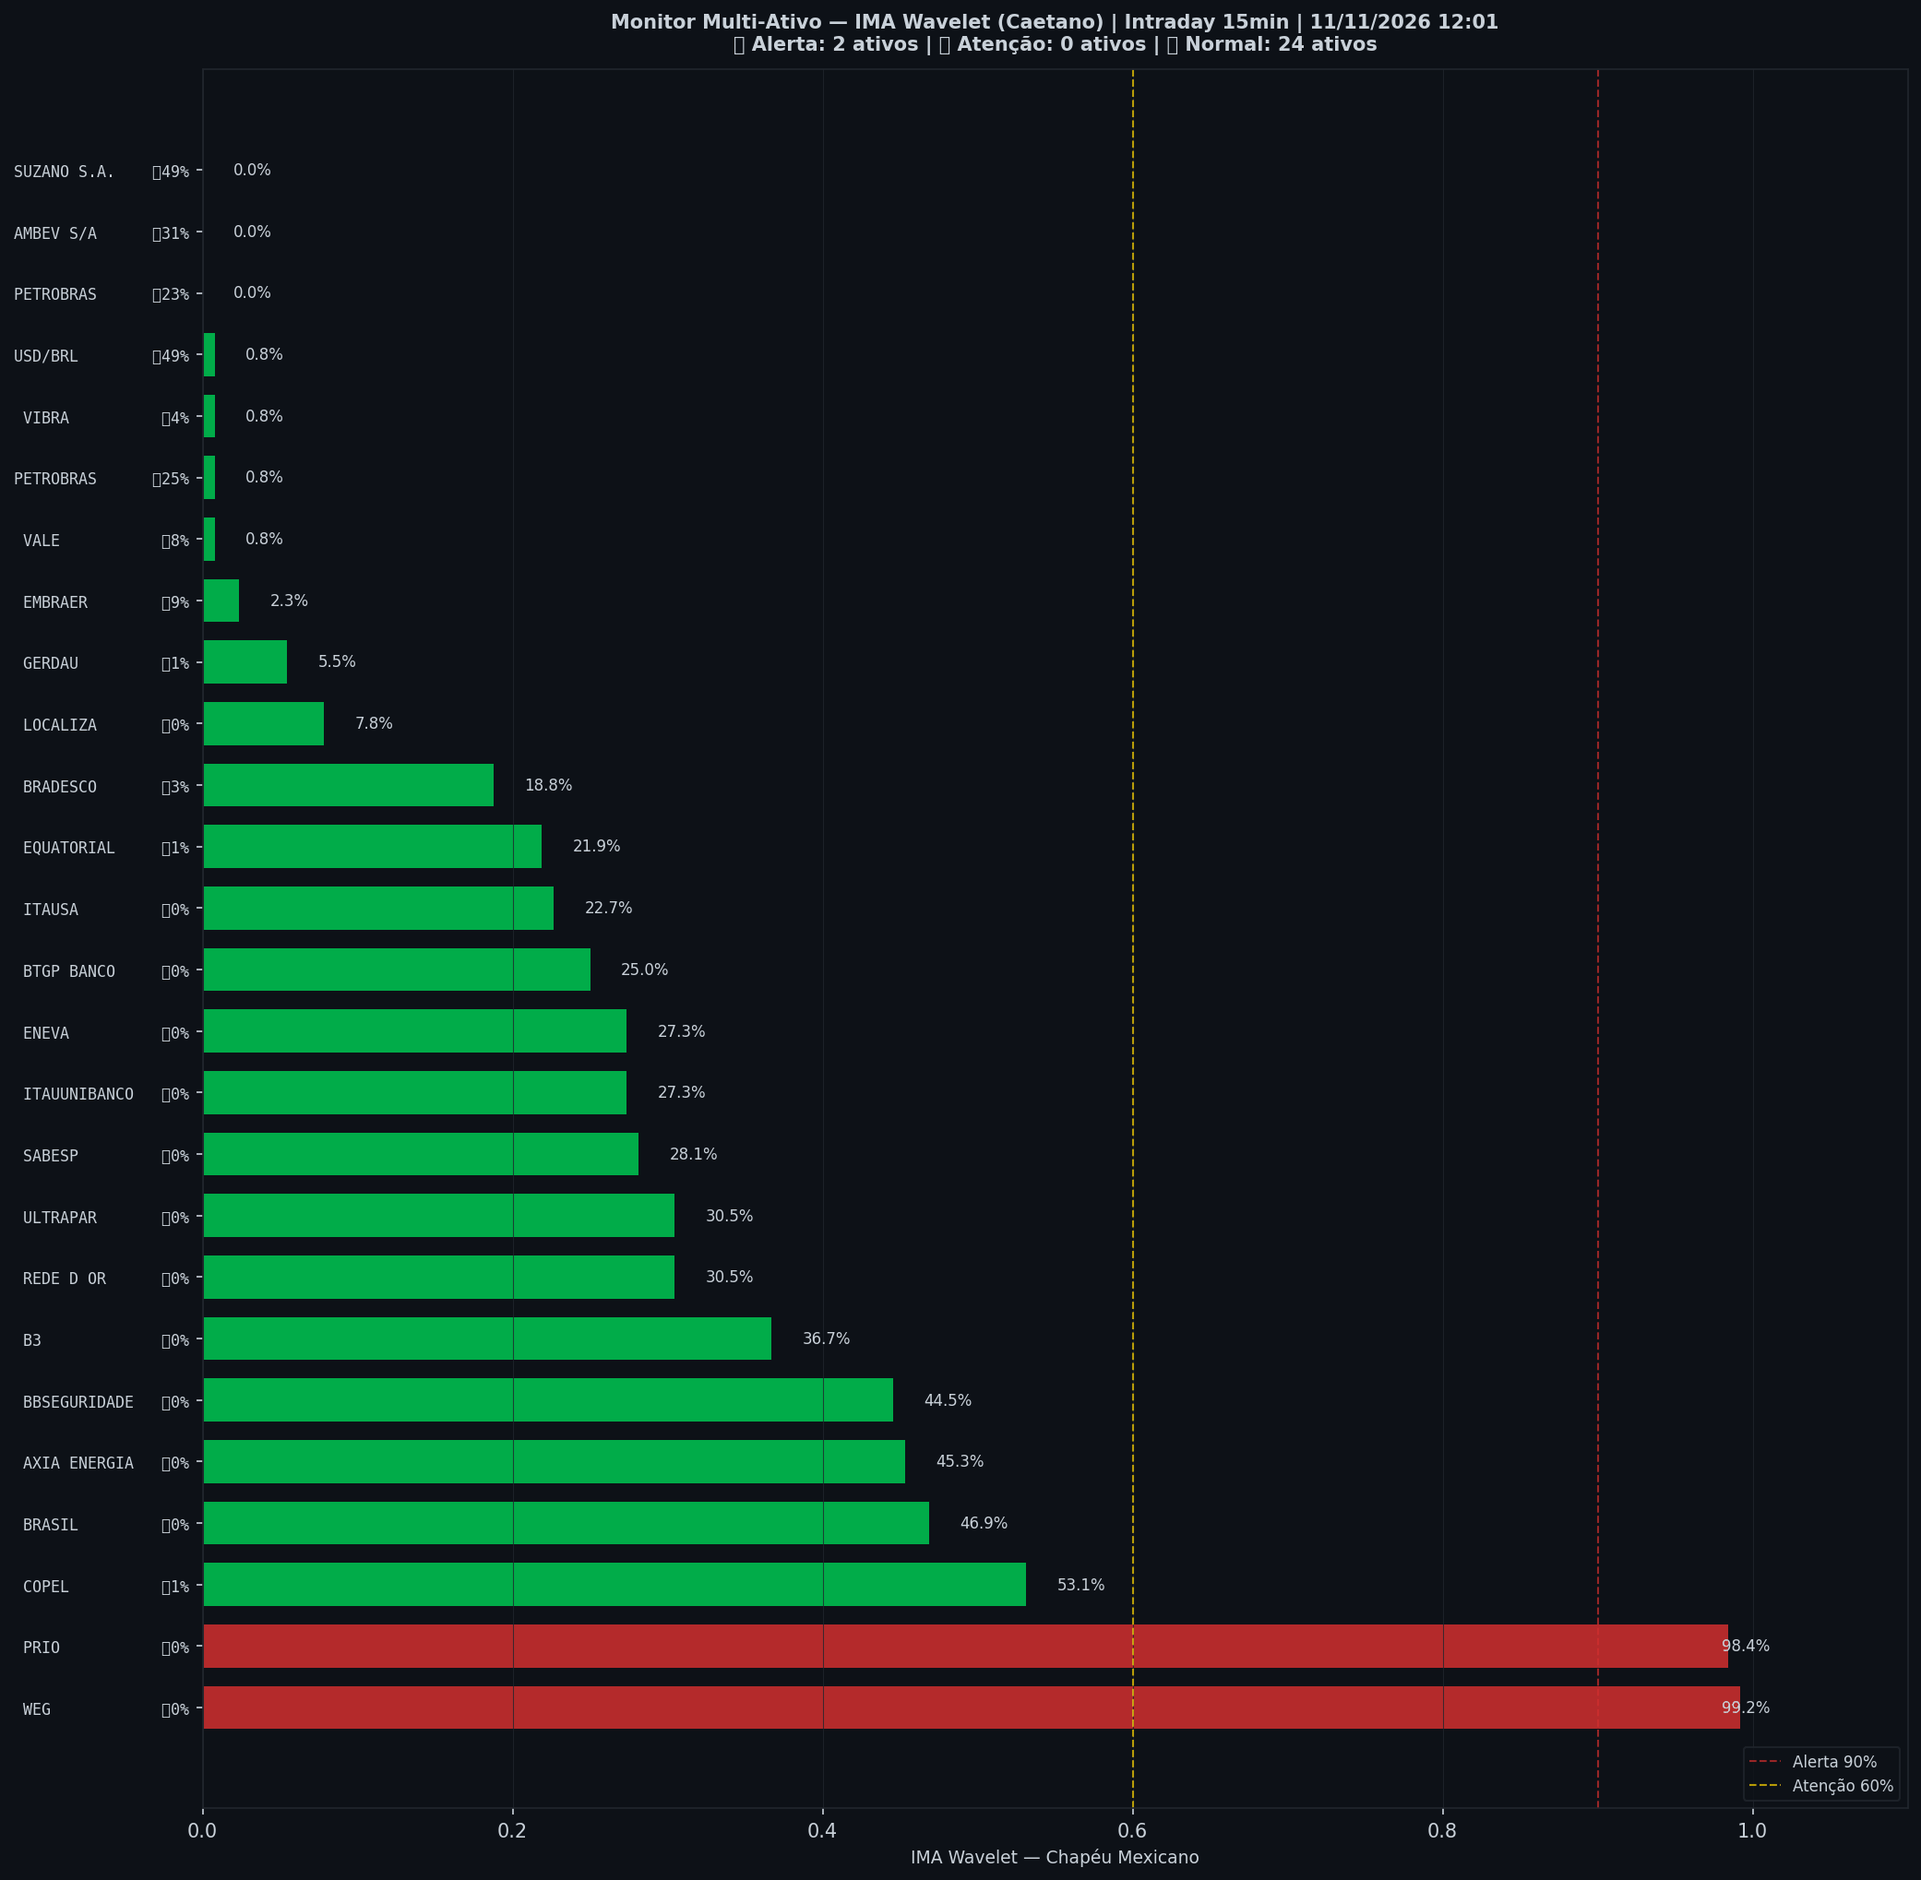
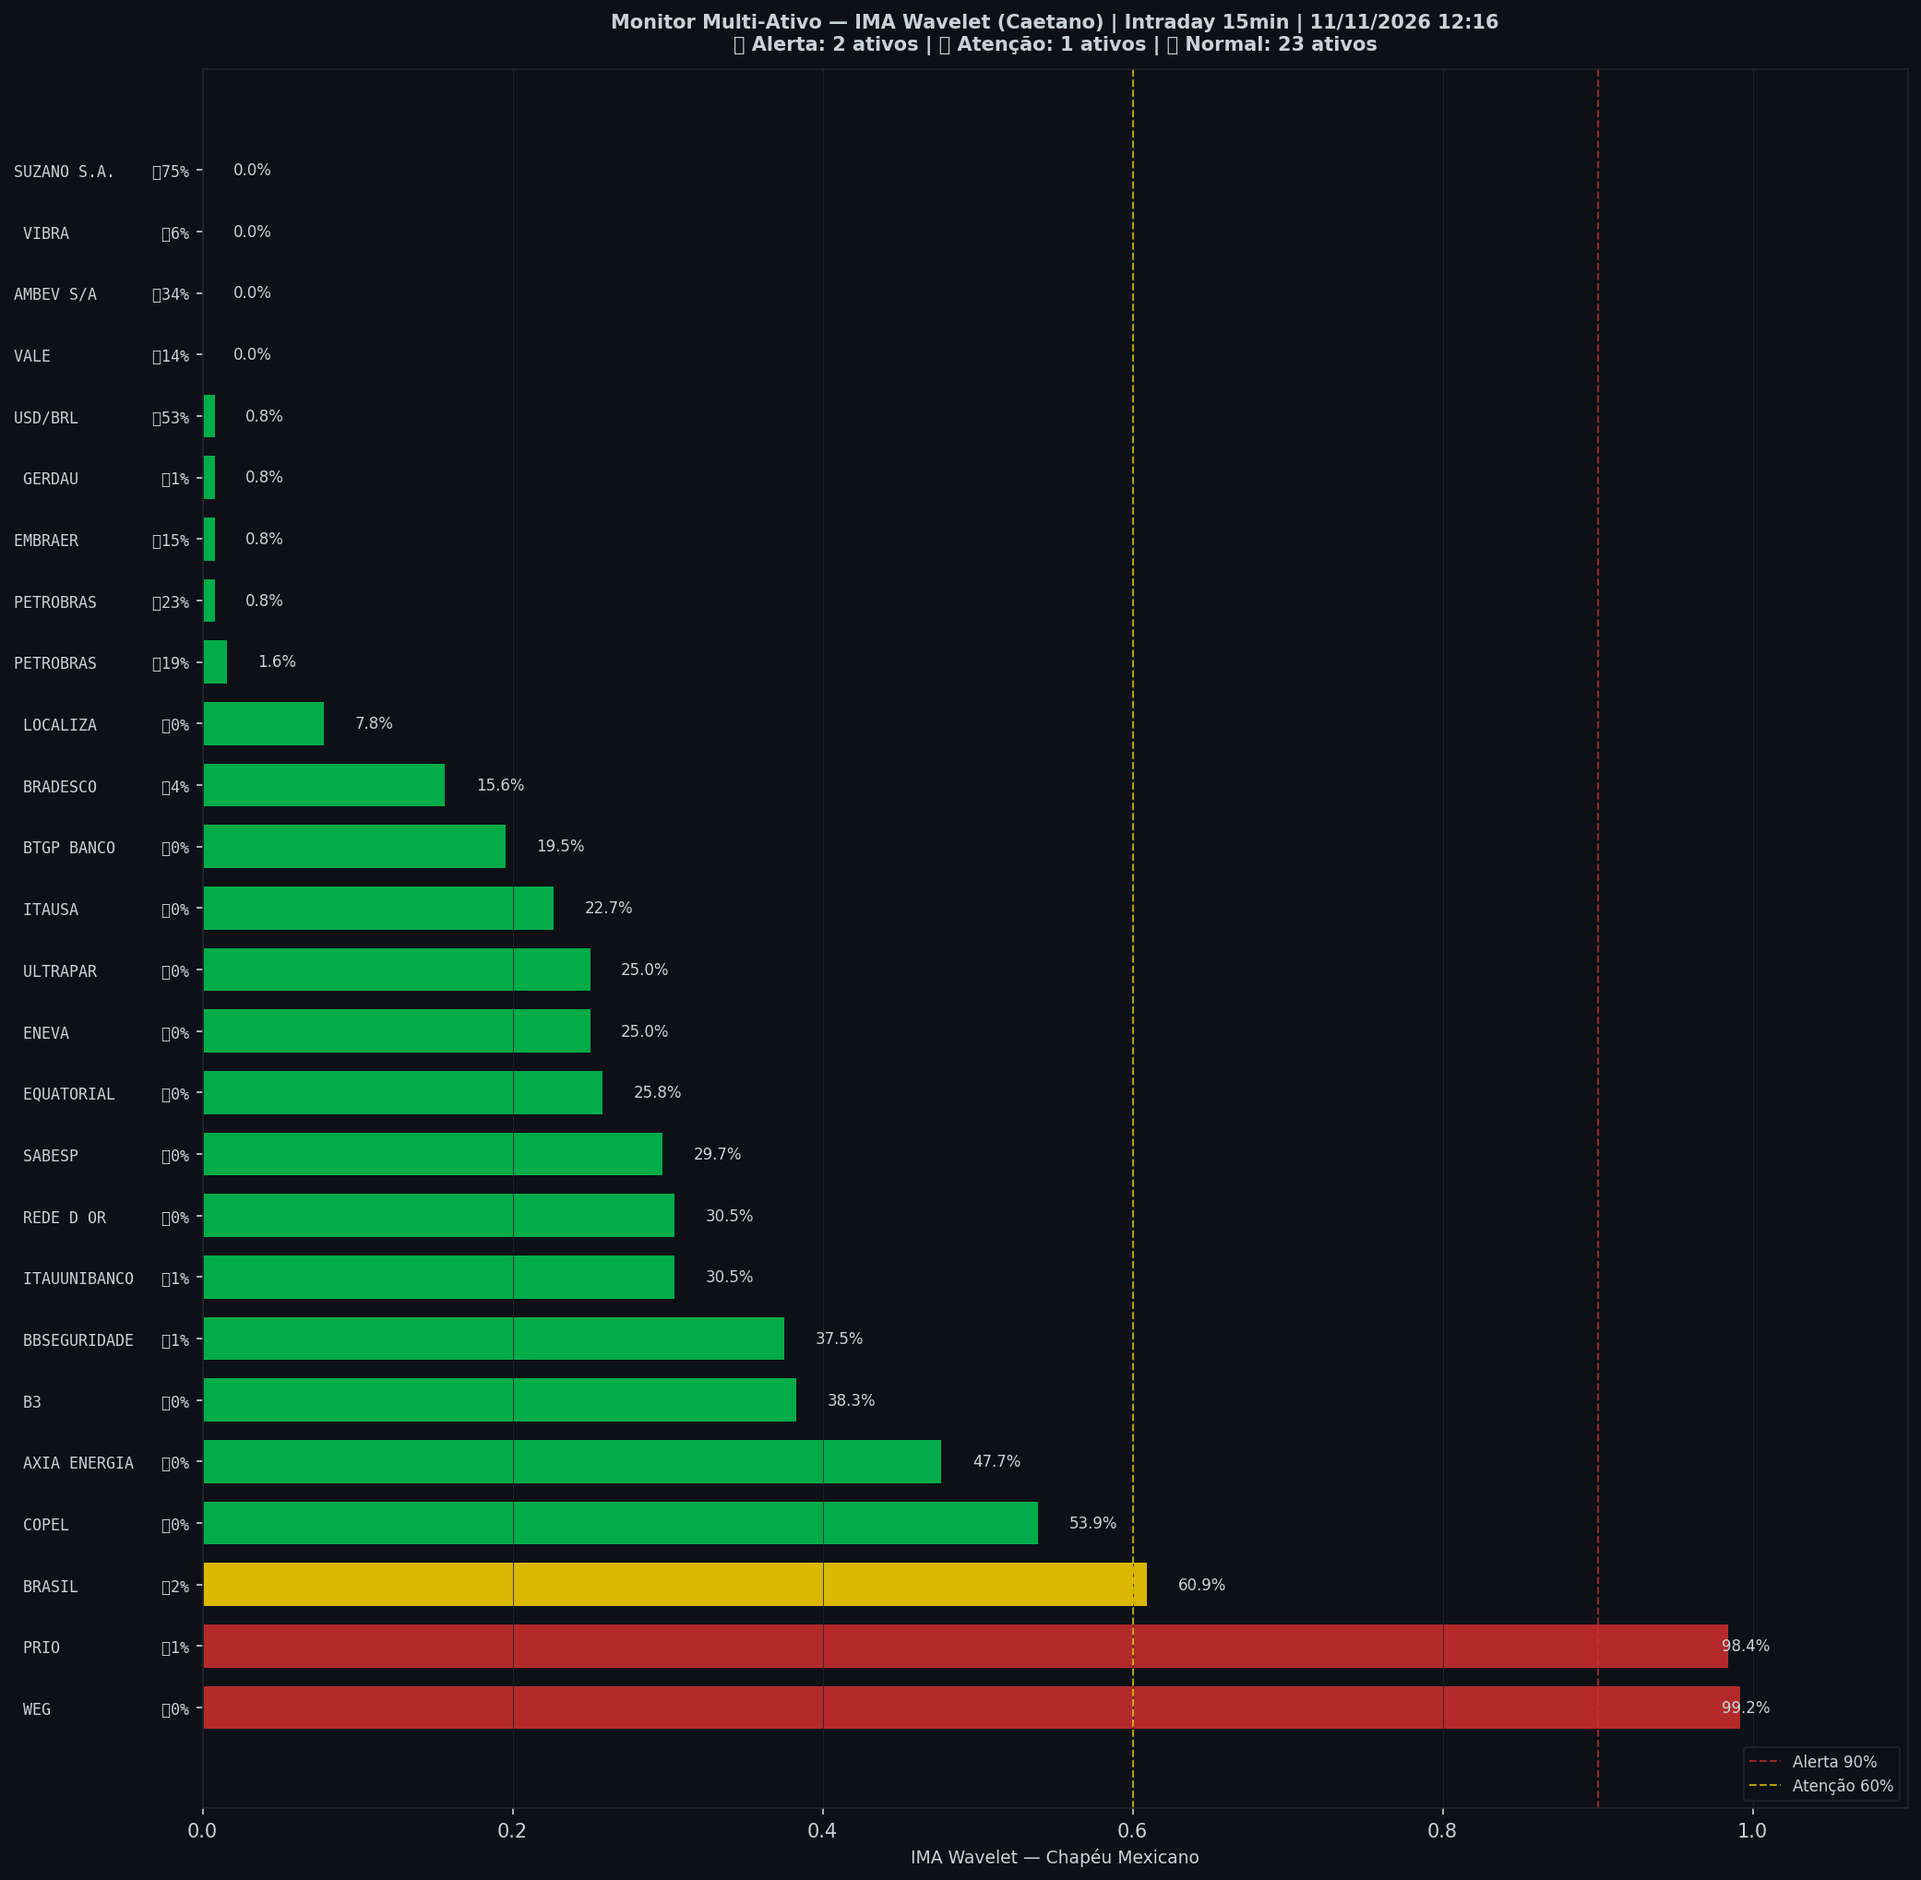
🤖 Auto: Sinal 11/11/2026 12:16

diff --git a/content/intraday/2026-11-11.md b/content/intraday/2026-11-11.md
@@ -1,11 +1,11 @@
 ---
-title: "🟢 Intraday 11/11/2026 11:45 BRT — VERDE"
+title: "🟢 Intraday 11/11/2026 12:00 BRT — VERDE"
 date: 2026-11-11
 tags: [intraday]
 ---
 
-> [!success] Onde o mercado está agora (11/11 11:45, candles de 15 min): **🟢 Calmo**
-> `Pânico ◀───────────●─────────▶ Euforia`
+> [!success] Onde o mercado está agora (11/11 12:00, candles de 15 min): **🟢 Calmo**
+> `Pânico ◀──────────●──────────▶ Euforia`
 >
 > O Ibovespa está dentro da sua faixa normal, sem excesso para cima nem para baixo.
 > No gráfico diário: 🌱 Fundo se desfazendo.
@@ -20,8 +20,8 @@ tags: [intraday]
 > | 📍 **Sinais** | hoje: nenhum sinal | [abrir](sinais-topo-fundo/) |
 > | 🧪 **Placar ao vivo** | 1 operação(ões), 0 com lucro, soma -0,8% | [abrir](operacoes/) |
 
-> [!success] IMA Intraday · 15 min (11/11 11:45): 🟢 **VERDE** — Risco 5% · ▼ -3 p.p. vs leitura anterior
-> `█░░░░░░░░░░░░░░░░░░░`
+> [!success] IMA Intraday · 15 min (11/11 12:00): 🟢 **VERDE** — Risco 2% · ▼ -4 p.p. vs leitura anterior
+> `░░░░░░░░░░░░░░░░░░░░`
 > Preço na faixa normal em torno da tendência.
 
 
@@ -32,13 +32,13 @@ tags: [intraday]
 >
 > *Leitura educacional baseada em 26 anos de dados, não recomendação. [Como usar](../metodologia/crise#3-como-usar-na-prática).*
 
-| Indicador — IMA Intraday · 15 min (11/11 11:45) | Valor |
+| Indicador — IMA Intraday · 15 min (11/11 12:00) | Valor |
 |---|---|
-| 🔴 ζ Topo — preço esticado acima da tendência | **5%** |
+| 🔴 ζ Topo — preço esticado acima da tendência | **2%** |
 | 🔵 ζ Fundo — preço esticado abaixo da tendência | 0% |
 | 🫧 LPPL bolha — alta super-exponencial (risco de crash) | 0% |
 | 🫧 LPPL antibolha — queda super-exponencial (risco de repique) | 0% |
-| 📊 Ibovespa | 172.835 pts |
+| 📊 Ibovespa | 172.678 pts |
 
 ![Gráfico do sinal](../graficos/sinal_intraday.png)
 
@@ -46,6 +46,7 @@ tags: [intraday]
 
 | Data | Zona | Evento | Risco | ζ Topo | ζ Fundo | LPPL |
 |---|---|---|---|---|---|---|
+| 2026-11-11 12:00 | 🟢 VERDE |  | **2%** | 2% | 0% | 0% |
 | 2026-11-11 11:45 | 🟢 VERDE |  | **5%** | 5% | 0% | 0% |
 | 2026-11-11 11:30 | 🟢 VERDE |  | **9%** | 9% | 0% | 0% |
 | 2026-11-11 11:15 | 🟢 VERDE |  | **10%** | 10% | 0% | 0% |
@@ -75,51 +76,50 @@ tags: [intraday]
 | 2026-11-10 13:30 | 🟢 VERDE |  | **0%** | 0% | 15% | 0% |
 | 2026-11-10 13:15 | 🟢 VERDE |  | **1%** | 1% | 12% | 0% |
 | 2026-11-10 13:00 | 🟢 VERDE |  | **1%** | 1% | 5% | 0% |
-| 2026-11-10 12:45 | 🟢 VERDE |  | **1%** | 1% | 2% | 0% |
 
 <small>Destaques: 🟡 ≥ 60% · 🔴 ≥ 90% (Risco e ζ Topo) · 🔵 ≥ 60% · 🔪 ≥ 90% (ζ Fundo) · 🫧 ≥ 30% · 🫧🔴 ≥ 50% (LPPL)</small>
 
 ## Monitor Multi-Ativo
 
-**8% dos ativos em tensão** (2🔴 0🟡) · **0 com ζ Fundo alto** — quanto mais ativos disparam juntos, mais confiável o sinal.
+**12% dos ativos em tensão** (2🔴 1🟡) · **1 com ζ Fundo alto** — quanto mais ativos disparam juntos, mais confiável o sinal.
 
 > [!danger] Em destaque no multi-ativo
-> 🔴 **WEG** ζ Topo 99% · 🔴 **PRIO** ζ Topo 98%
+> 🔴 **WEG** ζ Topo 99% · 🔴 **PRIO** ζ Topo 98% · 🔵 **SUZANO S.A.** ζ Fundo 75% · 🟡 **BRASIL** ζ Topo 61%
 
 | Zona | Ativo | Setor | ζ Topo | ζ Fundo |
 |---|---|---|---|---|
 | 🔴 | **WEG** | Industrial | 🔴 **99.2%** | 0.0% |
-| 🔴 | **PRIO** | Petróleo | 🔴 **98.4%** | 0.0% |
-| 🟢 | **COPEL** | Energia | 53.1% | 0.8% |
-| 🟢 | **SUZANO S.A.** | Papel/Celulose | 0.0% | 49.2% |
-| 🟢 | **USD/BRL** | Câmbio | 0.8% | 49.2% |
-| 🟢 | **BRASIL** | Financeiro | 46.9% | 0.0% |
-| 🟢 | **AXIA ENERGIA** | Energia | 45.3% | 0.0% |
-| 🟢 | **BBSEGURIDADE** | Financeiro | 44.5% | 0.0% |
-| 🟢 | **B3** | Financeiro | 36.7% | 0.0% |
-| 🟢 | **AMBEV S/A** | Consumo | 0.0% | 31.2% |
+| 🔴 | **PRIO** | Petróleo | 🔴 **98.4%** | 0.8% |
+| 🟢 | **SUZANO S.A.** | Papel/Celulose | 0.0% | 🔵 **75.0%** |
+| 🟡 | **BRASIL** | Financeiro | 🟡 **60.9%** | 1.6% |
+| 🟢 | **COPEL** | Energia | 53.9% | 0.0% |
+| 🟢 | **USD/BRL** | Câmbio | 0.8% | 53.1% |
+| 🟢 | **AXIA ENERGIA** | Energia | 47.7% | 0.0% |
+| 🟢 | **B3** | Financeiro | 38.3% | 0.0% |
+| 🟢 | **BBSEGURIDADE** | Financeiro | 37.5% | 0.8% |
+| 🟢 | **AMBEV S/A** | Consumo | 0.0% | 34.4% |
+| 🟢 | **ITAUUNIBANCO** | Financeiro | 30.5% | 0.8% |
 | 🟢 | **REDE D OR** | Saúde | 30.5% | 0.0% |
-| 🟢 | **ULTRAPAR** | Outros | 30.5% | 0.0% |
-| 🟢 | **SABESP** | Saneamento | 28.1% | 0.0% |
-| 🟢 | **ITAUUNIBANCO** | Financeiro | 27.3% | 0.0% |
-| 🟢 | **ENEVA** | Energia | 27.3% | 0.0% |
-| 🟢 | **PETROBRAS** | Petróleo | 0.8% | 25.0% |
-| 🟢 | **BTGP BANCO** | Financeiro | 25.0% | 0.0% |
-| 🟢 | **PETROBRAS** | Petróleo | 0.0% | 22.7% |
+| 🟢 | **SABESP** | Saneamento | 29.7% | 0.0% |
+| 🟢 | **EQUATORIAL** | Energia | 25.8% | 0.0% |
+| 🟢 | **ENEVA** | Energia | 25.0% | 0.0% |
+| 🟢 | **ULTRAPAR** | Outros | 25.0% | 0.0% |
+| 🟢 | **PETROBRAS** | Petróleo | 0.8% | 23.4% |
 | 🟢 | **ITAUSA** | Financeiro | 22.7% | 0.0% |
-| 🟢 | **EQUATORIAL** | Energia | 21.9% | 0.8% |
-| 🟢 | **BRADESCO** | Financeiro | 18.8% | 3.1% |
-| 🟢 | **EMBRAER** | Outros | 2.3% | 9.4% |
-| 🟢 | **VALE** | Mineração | 0.8% | 7.8% |
+| 🟢 | **BTGP BANCO** | Financeiro | 19.5% | 0.0% |
+| 🟢 | **PETROBRAS** | Petróleo | 1.6% | 18.8% |
+| 🟢 | **BRADESCO** | Financeiro | 15.6% | 3.9% |
+| 🟢 | **EMBRAER** | Outros | 0.8% | 14.8% |
+| 🟢 | **VALE** | Mineração | 0.0% | 14.1% |
 | 🟢 | **LOCALIZA** | Aluguel | 7.8% | 0.0% |
-| 🟢 | **GERDAU** | Siderurgia | 5.5% | 0.8% |
-| 🟢 | **VIBRA** | Energia | 0.8% | 3.9% |
+| 🟢 | **VIBRA** | Energia | 0.0% | 6.2% |
+| 🟢 | **GERDAU** | Siderurgia | 0.8% | 0.8% |
 
 <small>Destaques: 🟡 ≥ 60% · 🔴 ≥ 90% (Risco e ζ Topo) · 🔵 ≥ 60% · 🔪 ≥ 90% (ζ Fundo) · 🫧 ≥ 30% · 🫧🔴 ≥ 50% (LPPL)</small>
 
 ![Monitor multi-ativo](../graficos/multi_intraday.png)
 
-*Página atualizada em 11/11/2026 12:01 BRT (leitura da barra de 2026-11-11 11:45 BRT).*
+*Página atualizada em 11/11/2026 12:16 BRT (leitura da barra de 2026-11-11 12:00 BRT).*
 
 > [!warning] O que este indicador não faz
 > Medido em 5 anos de Ibovespa, o ζ **não antecipa** topos nem fundos: a capacidade de separar o que sobe do que cai ficou em 0,49–0,52, e 0,50 é moeda jogada ao ar. Ele descreve o estado de agora; não é aviso do que vem. As zonas verde/amarelo/vermelho continuam na página como descrição desse estado — **não as use como sinal de entrada ou saída**.

diff --git a/content/index.md b/content/index.md
@@ -6,10 +6,10 @@ tags: [home]
 
 **As ondas do mercado, explicadas.** Leitura do Ibovespa com estatística de 26 anos, baseada no trabalho de pesquisadores e traders reconhecidos e adaptada por Jarbas Daniel da Costa.
 
-*Última atualização: 11/11/2026 12:01 BRT · Intraday 15min*
+*Última atualização: 11/11/2026 12:16 BRT · Intraday 15min*
 
-> [!success] Onde o mercado está agora (11/11 11:45, candles de 15 min): **🟢 Calmo**
-> `Pânico ◀───────────●─────────▶ Euforia`
+> [!success] Onde o mercado está agora (11/11 12:00, candles de 15 min): **🟢 Calmo**
+> `Pânico ◀──────────●──────────▶ Euforia`
 >
 > O Ibovespa está dentro da sua faixa normal, sem excesso para cima nem para baixo.
 > No gráfico diário: 🌱 Fundo se desfazendo.
@@ -20,7 +20,7 @@ tags: [home]
 
 | Módulo | Agora | |
 |---|---|---|
-| 🌊 **Sinal IMA** | 🟢 VERDE · 🟢 calmo · ζ Topo 5% | [relatório](intraday/2026-11-11) |
+| 🌊 **Sinal IMA** | 🟢 VERDE · 🟢 calmo · ζ Topo 2% | [relatório](intraday/2026-11-11) |
 | 📈 **Tendência MME9** | Diário — fora<br>Semanal — fora | [abrir](operacoes/tendencia) |
 | 🎯 **Entradas do método** | ⏳ aguardando: Diário · Nadaraya, Diário · Semáforo N3 após ζ Fundo | [abrir](operacoes/entradas) |
 | 📍 **Sinais** | hoje: nenhum sinal | [abrir](sinais-topo-fundo/) |
@@ -44,26 +44,26 @@ tags: [home]
 > *Leitura educacional baseada em 26 anos de dados, não recomendação. [Como usar](metodologia/crise#3-como-usar-na-prática).*
 
 > [!info]- 🌊 Detalhes do Sinal IMA (indicadores e últimos 7 pregões)
-> > [!success] IMA Intraday · 15 min (11/11 11:45): 🟢 **VERDE** — Risco 5% · ▼ -3 p.p. vs leitura anterior
-> > `█░░░░░░░░░░░░░░░░░░░`
+> > [!success] IMA Intraday · 15 min (11/11 12:00): 🟢 **VERDE** — Risco 2% · ▼ -4 p.p. vs leitura anterior
+> > `░░░░░░░░░░░░░░░░░░░░`
 > > Preço na faixa normal em torno da tendência.
 >
 >
-> | Indicador — IMA Intraday · 15 min (11/11 11:45) | Valor |
+> | Indicador — IMA Intraday · 15 min (11/11 12:00) | Valor |
 > |---|---|
-> | 🔴 ζ Topo — preço esticado acima da tendência | **5%** |
+> | 🔴 ζ Topo — preço esticado acima da tendência | **2%** |
 > | 🔵 ζ Fundo — preço esticado abaixo da tendência | 0% |
 > | 🫧 LPPL bolha — alta super-exponencial (risco de crash) | 0% |
 > | 🫧 LPPL antibolha — queda super-exponencial (risco de repique) | 0% |
-> | 📊 Ibovespa | 172.835 pts |
+> | 📊 Ibovespa | 172.678 pts |
 >
-> **Multi-ativo:** 8% em tensão (2🔴 0🟡 de 26 ativos)
+> **Multi-ativo:** 12% em tensão (2🔴 1🟡 de 26 ativos)
 >
 > **Últimos 7 pregões**
 >
 > | Data | Zona | Risco | ζ Topo | ζ Fundo | LPPL |
 > |---|---|---|---|---|---|
-> | [11/11/2026](intraday/2026-11-11) | 🟢 VERDE | **5%** | 5% | 0% | 0% |
+> | [11/11/2026](intraday/2026-11-11) | 🟢 VERDE | **2%** | 2% | 0% | 0% |
 > | [10/11/2026](intraday/2026-11-10) | 🟢 VERDE | **0%** | 0% | 9% | 0% |
 >
 > <small>Destaques: 🟡 ≥ 60% · 🔴 ≥ 90% (Risco e ζ Topo) · 🔵 ≥ 60% · 🔪 ≥ 90% (ζ Fundo) · 🫧 ≥ 30% · 🫧🔴 ≥ 50% (LPPL)</small>

diff --git a/content/historico.md b/content/historico.md
@@ -5,7 +5,7 @@ tags: [historico]
 
 # 📜 Histórico de leituras (v5)
 
-**2.286 leituras** desde 2026-07-03. Na página ficam os últimos 3 dias leitura por leitura e o resumo de cada dia anterior; o registro inteiro está no arquivo para baixar.
+**2.287 leituras** desde 2026-07-03. Na página ficam os últimos 3 dias leitura por leitura e o resumo de cada dia anterior; o registro inteiro está no arquivo para baixar.
 
 [**Baixar o histórico completo**](historico-completo.csv) (100 KB · abre no Excel e no LibreOffice)
 
@@ -16,6 +16,7 @@ tags: [historico]
 
 | Data | Modo | Zona | Risco | IMA | LPPL |
 |---|---|---|---|---|---|
+| 2026-11-11 12:00 | intraday | 🟢 VERDE | 2% | 2% | 0% |
 | 2026-11-11 11:45 | intraday | 🟢 VERDE | 5% | 5% | 0% |
 | 2026-11-11 11:30 | intraday | 🟢 VERDE | 9% | 9% | 0% |
 | 2026-11-11 11:15 | intraday | 🟢 VERDE | 10% | 10% | 0% |

diff --git a/content/operacoes/ranking.md b/content/operacoes/ranking.md
@@ -5,7 +5,7 @@ tags: [operacoes]
 description: "As regras de compra do site ordenadas pelo resultado, com treino, teste e placar ao vivo"
 ---
 
-*Atualizado 11/11/2026 12:01 · histórico simulado com as regras congeladas em 23/10/2026 + placar ao vivo.*
+*Atualizado 11/11/2026 12:16 · histórico simulado com as regras congeladas em 23/10/2026 + placar ao vivo.*
 
 As regras de compra do site, **da que mais rendeu para a que menos rendeu**. O resultado é por operação, no índice à vista, sem custos e sem juros compostos (a soma é só a soma das operações). **Treino** = entradas de 2001 a 2013 e **teste** = 2014 em diante: uma regra só é confiável se ganhou nos dois. O único resultado sem nenhum ajuste ao histórico é o **placar ao vivo**.
 

diff --git a/content/linha-do-tempo/index.md b/content/linha-do-tempo/index.md
@@ -5,7 +5,7 @@ description: "Todo sinal, ordem, stop e aviso do Pêndulo de Mercado, do mais re
 tags: [eventos]
 ---
 
-*Atualizada 11/11/2026 12:01 BRT · a cada 15 min no pregão e às 19h.*
+*Atualizada 11/11/2026 12:16 BRT · a cada 15 min no pregão e às 19h.*
 
 Tudo o que o sistema fez ou detectou, **do mais recente para o mais antigo**: sinais de topo e fundo, ordens de compra e de venda armadas, compras, vendas, stops, avisos de 🚨 preço perto do nível e mudanças do Sinal IMA. Os **últimos 7 dias** ficam abertos; o resto, por **ano → mês → dia**.
 
